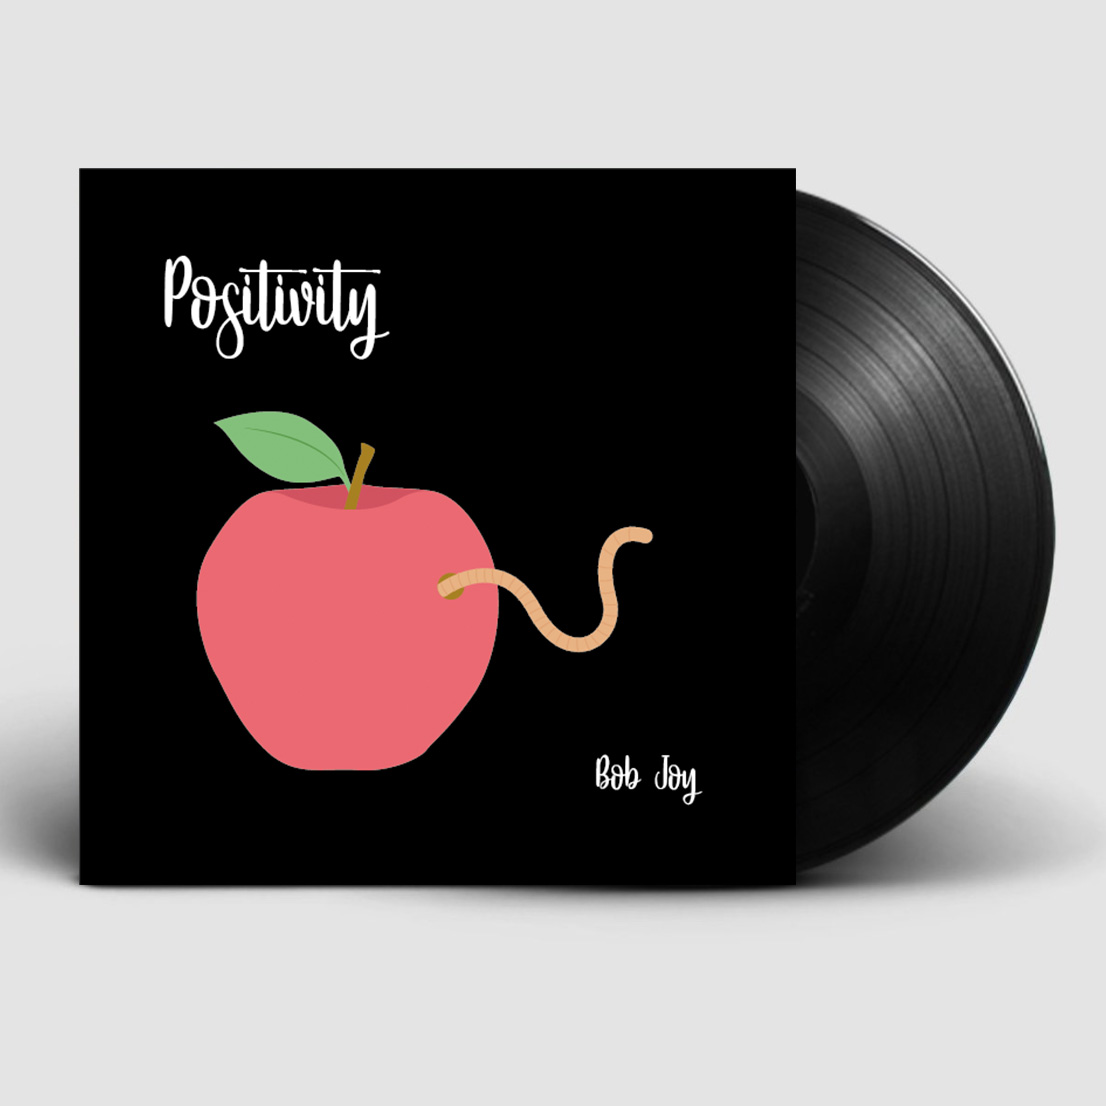
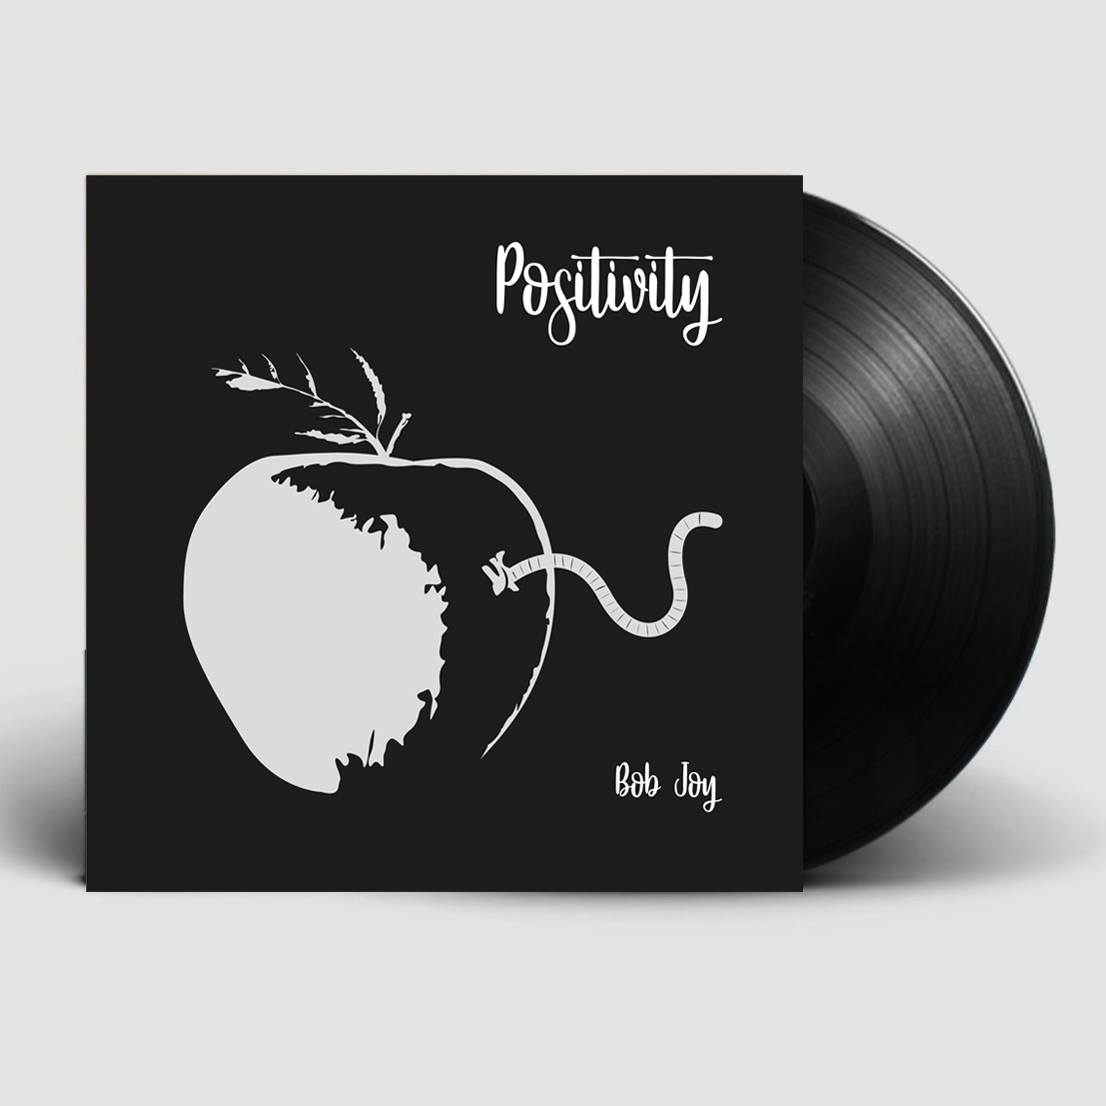
ex

diff --git a/webshop/webshop.html b/webshop/webshop.html
@@ -25,34 +25,34 @@
       <article>
           <p class="categorie">Louis Vertigo</p>
           <h2>Blue skies</h2>
-          <img class="" src="blueSkies.jpg" onmouseover="this.src='BaA.png'" onmouseout="this.src='blueSkies.jpg'"/>
+          <img class="" src="blueSkies.jpg" onmouseover="this.src='BVfoto.png'" onmouseout="this.src='blueSkies.jpg'"/>
           <p class="tekst">Welkom op onze website. Hier kan u steeds op de hoogte blijven van al onze nieuwtjes. Onze artiesten en kan u hier ook bekijken. Eveneens een plaat kopen voor uw platencollectie, doet u in de webshop.</p>
           <a href="#" class="auteur">Kopen</a>
-          <p class="tijdstip">Ma 7 mei 9:46</p>
+          <p class="tijdstip">19,99€</p>
       </article>
       <article>
             <p class="categorie">Louis Vertigo</p>
             <h2>Fire</h2>
-            <img class="" src="SpecialVisual.jpg">
+            <img class="" src="SpecialVisual.jpg" onmouseover="this.src='BVspec.jpg'" onmouseout="this.src='SpecialVisual.jpg'"/>
             <p class="tekst">Welkom op onze website. Hier kan u steeds op de hoogte blijven van al onze nieuwtjes. Onze artiesten en kan u hier ook bekijken. Eveneens een plaat kopen voor uw platencollectie, doet u in de webshop.</p>
             <a href="#" class="auteur">Kopen</a>
-            <p class="tijdstip">Ma 7 mei 9:46</p>
+            <p class="tijdstip">22,99€</p>
       </article>
       <article>
             <p class="categorie">Louis Vertigo</p>
             <h2>Paint it</h2>
-            <img class="" src="illus.jpg">
+            <img class="" src="illus.jpg" onmouseover="this.src='BVillus.png'" onmouseout="this.src='illus.jpg'"/>
             <p class="tekst">Welkom op onze website. Hier kan u steeds op de hoogte blijven van al onze nieuwtjes. Onze artiesten en kan u hier ook bekijken. Eveneens een plaat kopen voor uw platencollectie, doet u in de webshop.</p>
             <a href="#" class="auteur">Kopen</a>
-            <p class="tijdstip">Ma 7 mei 9:46</p>
+            <p class="tijdstip">19,99€</p>
       </article>
       <article>
           <p class="categorie">Louis Vertigo</p>
           <h2>The mountains</h2>
-          <img class="" src="typo.jpg">
+          <img class="" src="typo.jpg" onmouseover="this.src='BVtypo.png'" onmouseout="this.src='typo.jpg'"/>
           <p class="tekst">Welkom op onze website. Hier kan u steeds op de hoogte blijven van al onze nieuwtjes. Onze artiesten en kan u hier ook bekijken. Eveneens een plaat kopen voor uw platencollectie, doet u in de webshop.</p>
           <a href="#" class="auteur">Kopen</a>
-          <p class="tijdstip">Ma 7 mei 9:46</p>
+          <p class="tijdstip">19,99€</p>
       </article>
       <article>
             <p class="categorie">The Molly Brothers</p>
@@ -60,7 +60,7 @@
             <img class="" src="Afoto.png" onmouseover="this.src='BaA.png'" onmouseout="this.src='Afoto.png'"/>
             <p class="tekst">Welkom op onze website. Hier kan u steeds op de hoogte blijven van al onze nieuwtjes. Onze artiesten en kan u hier ook bekijken. Eveneens een plaat kopen voor uw platencollectie, doet u in de webshop.</p>
             <a href="#" class="auteur">Kopen</a>
-            <p class="tijdstip">Ma 7 mei 9:46</p>
+            <p class="tijdstip">19,99€</p>
       </article>
       <article>
             <p class="categorie">The Molly Brothers</p>
@@ -68,7 +68,7 @@
             <img class="" src="Aspec.png" onmouseover="this.src='BAspec.png'" onmouseout="this.src='Aspec.png'"/>
             <p class="tekst">Welkom op onze website. Hier kan u steeds op de hoogte blijven van al onze nieuwtjes. Onze artiesten en kan u hier ook bekijken. Eveneens een plaat kopen voor uw platencollectie, doet u in de webshop.</p>
             <a href="#" class="auteur">Kopen</a>
-            <p class="tijdstip">Ma 7 mei 9:46</p>
+            <p class="tijdstip">22,99€</p>
       </article>
       <article>
           <p class="categorie">The Molly Brothers</p>
@@ -76,7 +76,7 @@
           <img class="" src="Aillus.png" onmouseover="this.src='BAillus.png'" onmouseout="this.src='Aillus.png'"/>
           <p class="tekst">Welkom op onze website. Hier kan u steeds op de hoogte blijven van al onze nieuwtjes. Onze artiesten en kan u hier ook bekijken. Eveneens een plaat kopen voor uw platencollectie, doet u in de webshop.</p>
           <a href="#" class="auteur">Kopen</a>
-          <p class="tijdstip">Ma 7 mei 9:46</p>
+          <p class="tijdstip">19,99€</p>
       </article>
       <article>
             <p class="categorie">The Molly Brothers</p>
@@ -84,39 +84,39 @@
             <img class="" src="Atypo.png" onmouseover="this.src='BAtypo.png'" onmouseout="this.src='Atypo.png'"/>
             <p class="tekst">Welkom op onze website. Hier kan u steeds op de hoogte blijven van al onze nieuwtjes. Onze artiesten en kan u hier ook bekijken. Eveneens een plaat kopen voor uw platencollectie, doet u in de webshop.</p>
             <a href="#" class="auteur">Kopen</a>
-            <p class="tijdstip">Ma 7 mei 9:46</p>
+            <p class="tijdstip">19,99€</p>
       </article> <!--The Molly Brothers-->
       <article>
             <p class="categorie">Bob Joy</p>
             <h2>Dreams</h2>
-            <img class="" src="sieme3.jpg">
+            <img class="" src="Sieme3.jpg"  onmouseover="this.src='BSfoto.jpg'" onmouseout="this.src='Sieme3.jpg'"/>
             <p class="tekst">Welkom op onze website. Hier kan u steeds op de hoogte blijven van al onze nieuwtjes. Onze artiesten en kan u hier ook bekijken. Eveneens een plaat kopen voor uw platencollectie, doet u in de webshop.</p>
             <a href="#" class="auteur">Kopen</a>
-            <p class="tijdstip">Ma 7 mei 9:46</p>
+            <p class="tijdstip">19,99€</p>
       </article>
       <article>
             <p class="categorie">Bob Joy</p>
-            <h2>Blue Skies</h2>
-            <img class="" src="blueSkies.jpg">
+            <h2>Positivity</h2>
+            <img class="" src="Sieme2.jpg"   onmouseover="this.src='BSspec.jpg'" onmouseout="this.src='Sieme2.jpg'"/>
             <p class="tekst">Welkom op onze website. Hier kan u steeds op de hoogte blijven van al onze nieuwtjes. Onze artiesten en kan u hier ook bekijken. Eveneens een plaat kopen voor uw platencollectie, doet u in de webshop.</p>
             <a href="#" class="auteur">Kopen</a>
-            <p class="tijdstip">Ma 7 mei 9:46</p>
+            <p class="tijdstip">22,99€</p>
       </article>
       <article>
           <p class="categorie">Bob Joy</p>
-          <h2>Blue Skies</h2>
-          <img class="" src="blueSkies.jpg">
+          <h2>Open you mind</h2>
+          <img class="" src="Sieme1.jpg"    onmouseover="this.src='BSillus.jpg'" onmouseout="this.src='Sieme1.jpg'"/>
           <p class="tekst">Welkom op onze website. Hier kan u steeds op de hoogte blijven van al onze nieuwtjes. Onze artiesten en kan u hier ook bekijken. Eveneens een plaat kopen voor uw platencollectie, doet u in de webshop.</p>
           <a href="#" class="auteur">Kopen</a>
-          <p class="tijdstip">Ma 7 mei 9:46</p>
+          <p class="tijdstip">19,99€</p>
       </article>
       <article>
             <p class="categorie">Bob Joy</p>
-            <h2>Blue Skies</h2>
-            <img class="" src="blueSkies.jpg">
+            <h2>Alternative</h2>
+            <img class="" src="Sieme4.jpg"   onmouseover="this.src='BStypo.jpg'" onmouseout="this.src='Sieme4.jpg'"/>
             <p class="tekst">Welkom op onze website. Hier kan u steeds op de hoogte blijven van al onze nieuwtjes. Onze artiesten en kan u hier ook bekijken. Eveneens een plaat kopen voor uw platencollectie, doet u in de webshop.</p>
             <a href="#" class="auteur">Kopen</a>
-            <p class="tijdstip">Ma 7 mei 9:46</p>
+            <p class="tijdstip">19,99€</p>
       </article>
 </main>
 <footer>

diff --git a/artiesten/artiesten.html b/artiesten/artiesten.html
@@ -23,37 +23,41 @@
 </header>
 <main>
       <article>
-          <p class="categorie">By Louis Vertigo</p>
-          <h2>Blue skies</h2>
-          <img class="" src="blueSkies.jpg">
-          <p class="tekst">Welkom op onze website. Hier kan u steeds op de hoogte blijven van al onze nieuwtjes. Onze artiesten en kan u hier ook bekijken. Eveneens een plaat kopen voor uw platencollectie, doet u in de webshop.</p>
-          <p class="auteur">By Louis Vertigo</p>
+          <h2>Louis Vertigo</h2>
+          <img class="" src="Louis.jpg">
+          <p class="tekst">Louis kwam op zijn 4 jaar voor het eerst in contact met muziek. Hij heeft muziekschool gedaan in Antwerpen. Op zijn 14 heeft Louis vrienden voor het leven gevonden, die samen dezelfde passie deelden, Folkmuziek, waarmee hij al snel muziek ging maken. Vandaag de dag gaat louis verder in zijn solo carrière onder de naam, Louis Vertigo.</p>
+          <a href="../webshop/webshop.html" class="auteur">Platen</a>
           <p class="tijdstip">Ma 7 mei 9:46</p>
       </article>
       <article>
-            <p class="categorie">By Louis Vertigo</p>
-            <h2>Fire</h2>
+            <h2>The Molly Brothers</h2>
             <img class="" src="specialVisual.jpg">
             <p class="tekst">Welkom op onze website. Hier kan u steeds op de hoogte blijven van al onze nieuwtjes. Onze artiesten en kan u hier ook bekijken. Eveneens een plaat kopen voor uw platencollectie, doet u in de webshop.</p>
-            <p class="auteur">By Louis Vertigo</p>
+            <a href="../webshop/webshop.html" class="auteur">Platen</a>
             <p class="tijdstip">Ma 7 mei 9:46</p>
       </article>
       <article>
-            <p class="categorie">By Louis Vertigo</p>
-            <h2>Paint it</h2>
+            <h2>Bob Joy</h2>
             <img class="" src="illus.jpg">
             <p class="tekst">Welkom op onze website. Hier kan u steeds op de hoogte blijven van al onze nieuwtjes. Onze artiesten en kan u hier ook bekijken. Eveneens een plaat kopen voor uw platencollectie, doet u in de webshop.</p>
-            <p class="auteur">By Louis Vertigo</p>
+            <a href="../webshop/webshop.html" class="auteur">Platen</a>
             <p class="tijdstip">Ma 7 mei 9:46</p>
       </article>
-      <article>
-          <p class="categorie">By Louis Vertigo</p>
-          <h2>The mountains</h2>
-          <img class="" src="typo.jpg">
-          <p class="tekst">Welkom op onze website. Hier kan u steeds op de hoogte blijven van al onze nieuwtjes. Onze artiesten en kan u hier ook bekijken. Eveneens een plaat kopen voor uw platencollectie, doet u in de webshop.</p>
-          <p class="auteur">By Louis Vertigo</p>
-          <p class="tijdstip">Ma 7 mei 9:46</p>
-      </article>
+      <div class="parallax">
+        <div class="caption">
+          <span class="cap">Louis Vertigo</span>
+        </div>
+      </div>
+      <div class="parallax2">
+        <div class="caption">
+          <span class="cap">Louis Vertigo</span>
+        </div>
+      </div>
+      <div class="parallax3">
+        <div class="caption">
+          <span class="cap">Louis Vertigo</span>
+        </div>
+      </div>
 </main>
 <footer>
       <div class="meld">

diff --git a/artiesten/stijl.css b/artiesten/stijl.css
@@ -80,6 +80,11 @@ article {
   right: 15px;
   bottom: 25px;
   color: #6bc2be;
+  text-decoration: none;
+}
+
+.auteur:hover {
+  text-decoration: underline;
 }
 
 .tijdstip {
@@ -114,6 +119,10 @@ article:nth-child(2) a {
   text-decoration: none;
   color: #6bc2be;
   padding-bottom: 10px;
+}
+
+article .tekst {
+  text-align: justify;
 }
 
 .platen {
@@ -218,24 +227,71 @@ article:nth-child(2) a {
     }
 
     main {
-      display: grid;
-      grid-template-columns: 1fr 1fr;
     }
 
-    article h2 {
-      height: auto;
+    article {
+      display: none;
     }
 
-    article .tekst {
-      height: auto;
+    .parallax {
+        /* The image used */
+        background-image: url("Louis.jpg");
+
+        /* Set a specific height */
+        min-height: 800px;
+
+        /* Create the parallax scrolling effect */
+        background-attachment: fixed;
+        background-position: center;
+        background-repeat: no-repeat;
+        background-size: cover;
     }
 
-    article:nth-child(3) {
-      grid-column: 1;
+    .caption {
+      position: absolute;
+      left: 10%;
+      top: 30%;
+      width: 100%;
+      color: black;
+      opacity: 0.8;
     }
 
-    article .grootLogo {
-      width: 40%;
+    .cap {
+      font-size: 40px;
+      font-family: helvetica;
+      font-weight: bold;
+      padding: 18px;
+      color: black;
+      background-color: white;
+      border-radius: 3px;
+    }
+
+    .parallax2 {
+        /* The image used */
+        background-image: url("The molly brothers.jpg");
+
+        /* Set a specific height */
+        min-height: 800px;
+
+        /* Create the parallax scrolling effect */
+        background-attachment: fixed;
+        background-position: center;
+        background-repeat: no-repeat;
+        background-size: cover;
+    }
+
+    .parallax3 {
+        /* The image used */
+        background-image: url("Bob joy.jpg");
+
+        /* Set a specific height */
+        min-height: 800px;
+
+        /* Create the parallax scrolling effect */
+        background-attachment: fixed;
+        background-position: center;
+        background-repeat: no-repeat;
+        background-size: cover;
     }
 
     header img {
@@ -254,16 +310,24 @@ article:nth-child(2) a {
 
   @media (min-width: 1024px) {
     main {
-      display: grid;
-      grid-template-columns: 1fr 1fr;
     }
 
-    article .tekst {
-      height: auto;
+    article {
+      display: none;
     }
 
-    article .grootLogo {
-      width: 10%;
+    .parallax {
+        /* The image used */
+        background-image: url("Louis.jpg");
+
+        /* Set a specific height */
+        min-height: 800px;
+
+        /* Create the parallax scrolling effect */
+        background-attachment: fixed;
+        background-position: center;
+        background-repeat: no-repeat;
+        background-size: cover;
     }
 
     header img {
